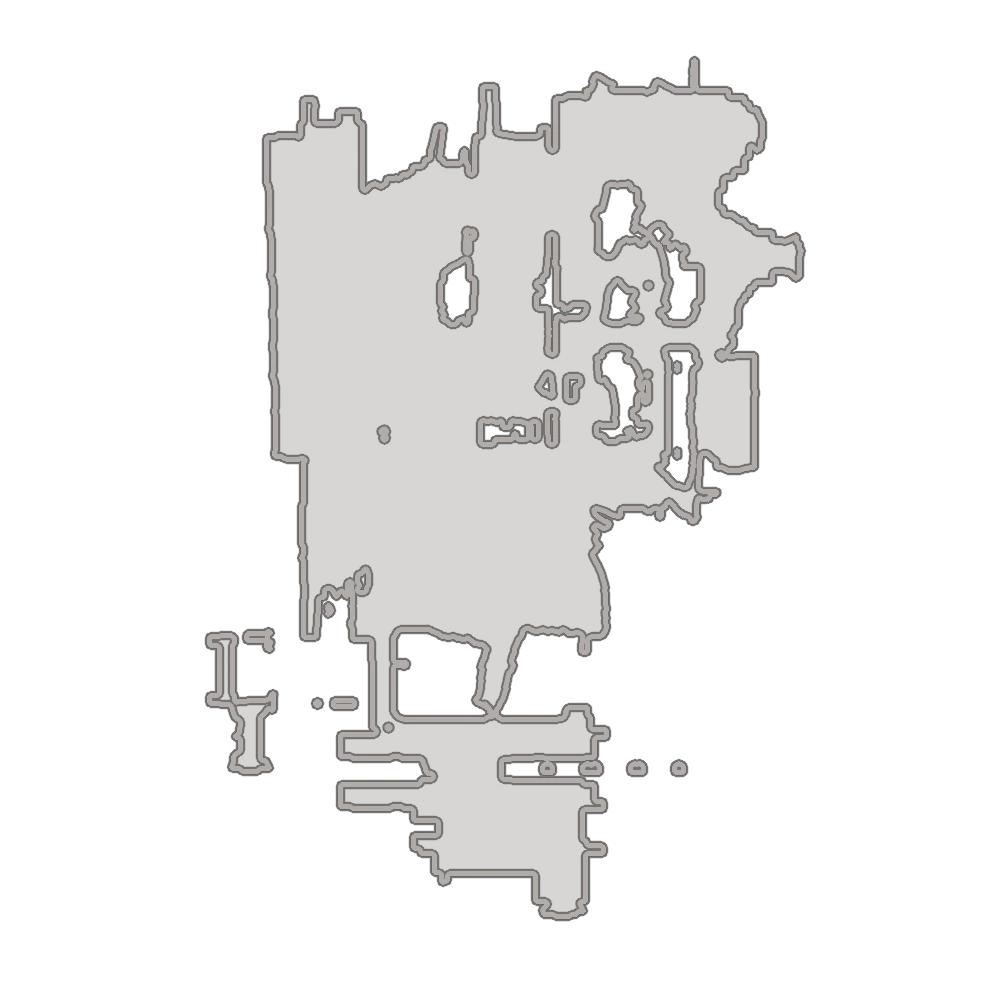
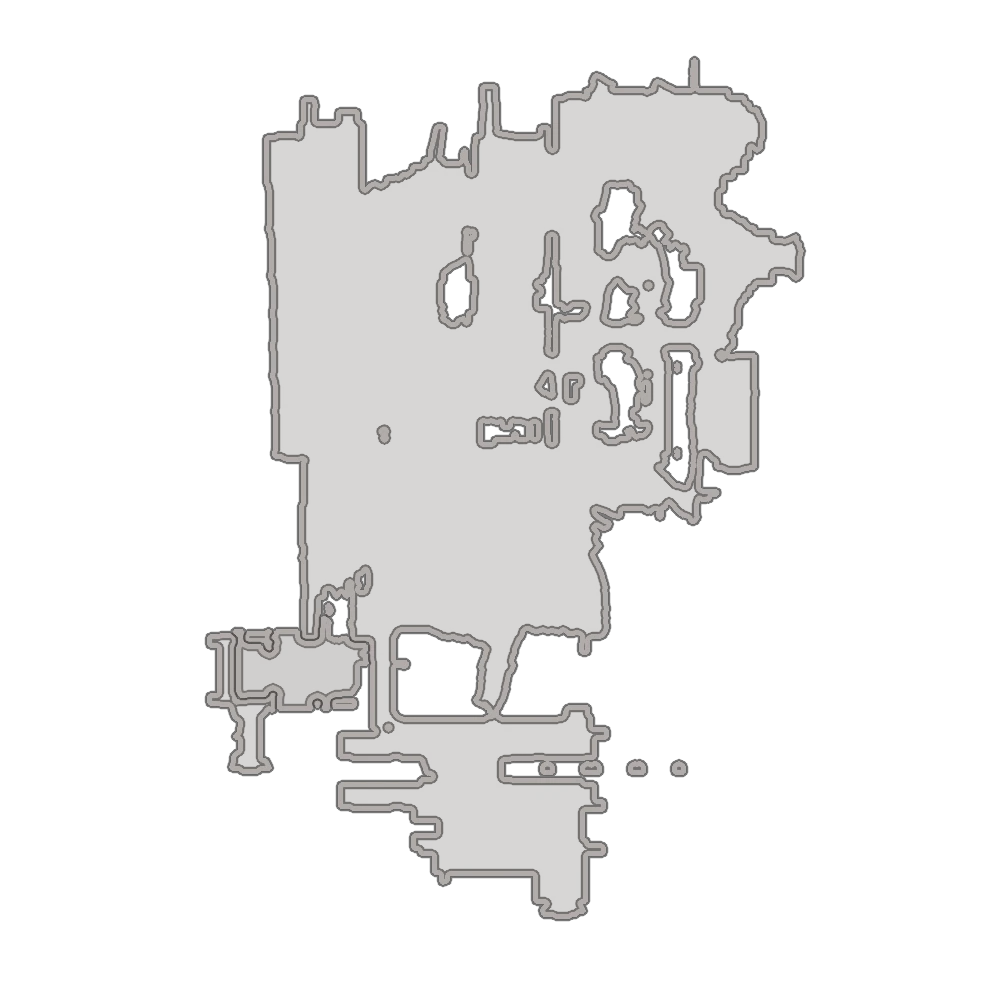
Restore Kala-Azar minimap connector

Changed region(s): [[0.217, 0.62, 0.372, 0.713]]

diff --git a/analyzer/index.html b/analyzer/index.html
@@ -158,7 +158,7 @@
   </div>
 
   <script src="./html2canvas.min.js"></script>
-  <script src="./minimaps/catalog-20260822-4.js"></script>
+  <script src="./minimaps/catalog-20260823-5.js"></script>
   <script src="./parser.js?v=20260822-71"></script>
   <script src="./tier-data.js?v=20260816-2"></script>
   <script src="./spawn-alignment.js?v=20260820-1"></script>

diff --git a/analyzer/tools/build_game_minimaps.py b/analyzer/tools/build_game_minimaps.py
@@ -18,7 +18,7 @@ import cv2
 import numpy as np
 
 
-IMMUTABLE_CATALOG_FILENAME = "catalog-20260822-4.js"
+IMMUTABLE_CATALOG_FILENAME = "catalog-20260823-5.js"
 
 
 GROUP_NODES = {
@@ -324,6 +324,14 @@ CORPUS_SHIP_MIN_CONNECTED_AREA = 1000
 HYDRON_DEFENSE_GROUP = "hydron+helene+odin"
 HYF_DEFENSE_GROUP = "hyf"
 ICE_PLANET_DEFENSE_GROUP = "ose+paimon+larzac"
+INFESTED_SHIP_DEFENSE_GROUP = "akkad+kala-azar"
+# Kala-Azar's authored spawn heights form one nearly continuous cluster, so
+# the generic median slice lands around +1.9 m and misses the real +6.25 m bent
+# hallway that joins the lower-left spawn room. Composite that exact upper
+# floor band from the mesh; do not replace its shape with authored artwork.
+INFESTED_SHIP_CONNECTOR_HEIGHT = 6.25
+INFESTED_SHIP_CONNECTOR_TOLERANCE = 0.65
+INFESTED_SHIP_CONNECTOR_ANCHORS = ((35.0, 6.25, -28.0),)
 # Larzac's right-side spawn chain belongs to a real Y-shaped building whose
 # walkable top sits around 8.5 m even though its authored spawn markers sit at
 # 4.75 m. The generic +/-3 m middle band therefore misses the floor while
@@ -699,6 +707,8 @@ def render_map(
         heights = list(HYF_PLAYABLE_FLOOR_HEIGHTS)
     elif group_id == ICE_PLANET_DEFENSE_GROUP:
         heights = sorted([*heights, LARZAC_Y_BUILDING_HEIGHT])
+    elif group_id == INFESTED_SHIP_DEFENSE_GROUP:
+        heights = sorted([*heights, INFESTED_SHIP_CONNECTOR_HEIGHT])
     elif group_id in CORPUS_OUTPOST_HEIGHT_BAND_INDICES:
         heights = [
             heights[index]
@@ -743,6 +753,10 @@ def render_map(
             group_id == ICE_PLANET_DEFENSE_GROUP
             and abs(height - LARZAC_Y_BUILDING_HEIGHT) < 0.01
         )
+        infested_ship_connector_band = (
+            group_id == INFESTED_SHIP_DEFENSE_GROUP
+            and abs(height - INFESTED_SHIP_CONNECTOR_HEIGHT) < 0.01
+        )
         gas_spawn_02_side_height = (
             gas_spawn_02_side_heights[band_index]
             if gas_spawn_02_side_heights is not None
@@ -752,15 +766,19 @@ def render_map(
             LARZAC_Y_BUILDING_HEIGHT_TOLERANCE
             if larzac_y_building_band
             else (
-                CORPUS_OUTPOST_COMPONENT_ONLY_TOLERANCE
-                if component_only_band
+                INFESTED_SHIP_CONNECTOR_TOLERANCE
+                if infested_ship_connector_band
                 else (
-                    CORPUS_OUTPOST_ADDITIONAL_HEIGHT_TOLERANCE
-                    if additional_height_band
+                    CORPUS_OUTPOST_COMPONENT_ONLY_TOLERANCE
+                    if component_only_band
                     else (
-                        HYF_ADDITIONAL_FLOOR_TOLERANCE
-                        if group_id == HYF_DEFENSE_GROUP and band_index > 0
-                        else 3.0
+                        CORPUS_OUTPOST_ADDITIONAL_HEIGHT_TOLERANCE
+                        if additional_height_band
+                        else (
+                            HYF_ADDITIONAL_FLOOR_TOLERANCE
+                            if group_id == HYF_DEFENSE_GROUP and band_index > 0
+                            else 3.0
+                        )
                     )
                 )
             )
@@ -976,6 +994,25 @@ def render_map(
             # space. This restores the upper and lower-middle playable decks
             # without repainting the interior with ceiling/furniture clutter.
             mask[image[:, :, 3] > 0] = 0
+        if infested_ship_connector_band:
+            # This upper slice crosses much of the arena. Only its silhouette
+            # outside the already-rendered base floor is useful: that restores
+            # the real bent hallway and spawn room without drawing upper-level
+            # railings and props over the readable central map.
+            mask[image[:, :, 3] > 0] = 0
+            mask = cv2.morphologyEx(
+                mask,
+                cv2.MORPH_CLOSE,
+                cv2.getStructuringElement(cv2.MORPH_ELLIPSE, (3, 3)),
+            )
+            count, labels, _, _ = cv2.connectedComponentsWithStats(
+                (mask > 0).astype(np.uint8), 8
+            )
+            retained = components_near_world_points(
+                labels, INFESTED_SHIP_CONNECTOR_ANCHORS
+            )
+            if count > 1:
+                mask[~np.isin(labels, list(retained))] = 0
 
         if interband_mask is not None:
             interband_mask = cv2.morphologyEx(
@@ -1162,6 +1199,7 @@ def render_map(
         HYDRON_DEFENSE_GROUP: "counterclockwise-20260821",
         HYF_DEFENSE_GROUP: "multi-floor-20260821",
         ICE_PLANET_DEFENSE_GROUP: "y-building-20260822",
+        INFESTED_SHIP_DEFENSE_GROUP: "lower-hallway-20260823",
     }
     asset_version = asset_versions.get(group_id)
     return {

diff --git a/analyzer/ARCHITECTURE.md b/analyzer/ARCHITECTURE.md
@@ -231,7 +231,7 @@ established the same procedural transform with 219-282 authored matches. All
 seven rows now match their complete 283-350 point sets against the resulting
 406-reference catalog. Live D1 never feeds the browser
 catalog directly. The page loads the byte-identical immutable
-`minimaps/catalog-20260821-6.js` asset while `catalog.js` remains the maintained
+`minimaps/catalog-20260823-5.js` asset while `catalog.js` remains the maintained
 generated source. At least 24 reference matches and 90% observed-point coverage
 are still required before the recovered transform maps any future points beyond
 that reviewed set. This prevents valid runtime extras from hiding the whole
@@ -266,6 +266,13 @@ The shared Hydron / Helene / Odin arena is displayed 90 degrees
 counterclockwise using the same projection-level rotation. Its geometry,
 objective positions, and submitted-log spawn matrix rotate together; the
 A/B/C/D glyphs are drawn after projection so the letters remain upright.
+
+Kala-Azar's authored spawn heights form a nearly continuous range whose generic
+median projection omits the real raised connector into the lower-left spawn
+room. Its Analyzer image composites the mesh component at +6.25 m, retaining
+only the reviewed component outside the existing floor silhouette. This
+restores the bent hallway without adding the upper arena's railings and props.
+The affine transform and submitted-log spawn coordinates are unchanged.
 
 ## Production report layout
 
